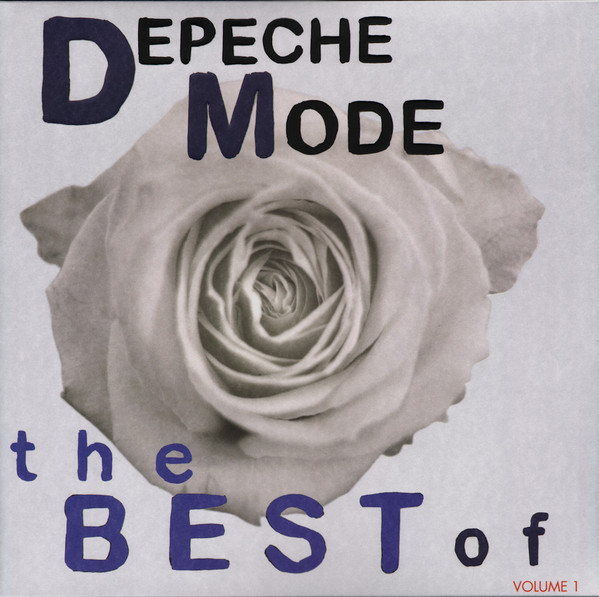
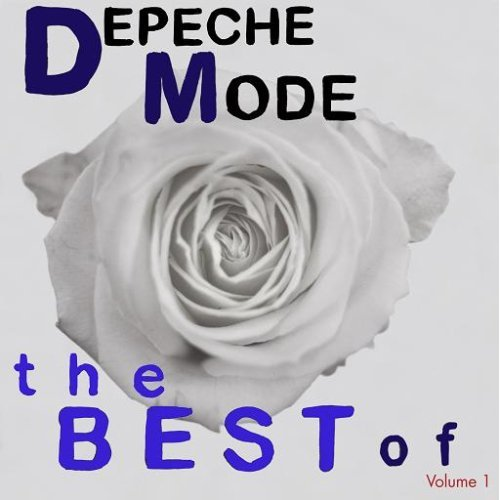
Updated album covers; Began new album details feature

diff --git a/src/app/data/albums.data.ts b/src/app/data/albums.data.ts
@@ -2,10 +2,10 @@ import type { Album } from '../models/album';
 
 export const ALBUMS: Album[] = [
   { id: 1, title: 'Off The Wall', artist: 'Michael Jackson', genre: 'R&B', year: 1979, month: 8, day: 10, coverUrl: 'michael_jackson-off_the_wall.jpg', color: '#94664c', compilation: false, gift: false, soundtrack: false },
-  { id: 2, title: 'Discovery', artist: 'Daft Punk', genre: 'Electronic', year: 2001, month: 3, day: 12, coverUrl: 'discovery.png', color: '#000', compilation: false, gift: false, soundtrack: false },
+  { id: 2, title: 'Discovery', artist: 'Daft Punk', genre: 'Electronic', year: 2001, month: 3, day: 12, coverUrl: 'daft_punk-discovery.jpg', color: '#000', compilation: false, gift: false, soundtrack: false },
   { id: 3, title: 'Casiopea', artist: 'Casiopea', genre: 'Jazz', year: 1979, month: 5, day: 25, coverUrl: 'casiopea-casiopea.jpg', color: '#1c2c1c', compilation: false, gift: false, soundtrack: false },
   { id: 4, title: 'Nevermind', artist: 'Nirvana', genre: 'Rock', year: 1991, month: 9, day: 24, coverUrl: 'nirvana-nevermind.jpg', color: '#127bad', compilation: false, gift: false, soundtrack: false },
-  { id: 5, title: 'Select Ambient Works 85-92', artist: 'Aphex Twin', genre: 'Electronic', year: 1992, month: 11, day: 9, coverUrl: 'aphex_twins-selected_ambient_works_85-92.png', color: '#ffffff', compilation: false, gift: false, soundtrack: false },
+  { id: 5, title: 'Select Ambient Works 85-92', artist: 'Aphex Twin', genre: 'Electronic', year: 1992, month: 11, day: 9, coverUrl: 'aphex_twins-selected_ambient_works_85-92.jpg', color: '#ffffff', compilation: false, gift: false, soundtrack: false },
   { id: 6, title: 'Neon Genesis Evangelion OST', artist: 'Shirou Sagisu', genre: 'Anime OST', year: 1995, month: 10, day: 4, coverUrl: 'shirou_sagisu-neon_genesis_evangelion_ost.jpg', color: '#000', compilation: false, gift: false, soundtrack: true },
   { id: 7, title: 'God of War: Ragnarok OST', artist: 'Bear McCreary', genre: 'Video Game OST', year: 2022, month: 11, day: 9, coverUrl: 'bear_mccreary-god_of_war_ragnarok_ost.jpg', color: '#e2ded8', compilation: false, gift: false, soundtrack: true },
   { id: 8, title: 'Attack on Titan OST', artist: 'Hiroyuki Sawano', genre: 'Anime OST', year: 2013, month: 4, day: 7, coverUrl: 'hiroyuki_sawano-attack_on_titan_ost.jpg', color: '#c0b3a2', compilation: false, gift: false, soundtrack: true },
@@ -18,8 +18,8 @@ export const ALBUMS: Album[] = [
   { id: 15, title: 'Chet Baker Sings', artist: 'Chet Baker', genre: 'Jazz', year: 1956, month: 1, day: 1, coverUrl: 'chet_baker-chet_baker_sings.jpg', color: '#e99700', compilation: false, gift: false, soundtrack: false },
   { id: 16, title: 'Five Leaves Left', artist: 'Nick Drake', genre: 'Rock', year: 1969, month: 9, day: 1, coverUrl: 'nick_drake-five_leaves_left.jpg', color: '#117a5b', compilation: false, gift: false, soundtrack: false },
   { id: 17, title: 'Some Great Reward', artist: 'Depeche Mode', genre: 'Pop', year: 1984, month: 9, day: 24, coverUrl: 'depeche_mode-some_great_reward.png', color: '#547288', compilation: false, gift: true, soundtrack: false },
-  { id: 18, title: 'Violator', artist: 'Depeche Mode', genre: 'Pop', year: 1990, month: 3, day: 19, coverUrl: 'depeche_mode-violator.png', color: '#000', compilation: false, gift: false, soundtrack: false },
-  { id: 19, title: 'To Pimp a Butterfly', artist: 'Kendrick Lamar', genre: 'Hip-Hop', year: 2015, month: 3, day: 15, coverUrl: 'kendrick_lamar-to_pimp_a_butterfly.png', color: '#b3b0b3', compilation: false, gift: false, soundtrack: false },
+  { id: 18, title: 'Violator', artist: 'Depeche Mode', genre: 'Pop', year: 1990, month: 3, day: 19, coverUrl: 'depeche_mode-violator.jpg', color: '#000', compilation: false, gift: false, soundtrack: false },
+  { id: 19, title: 'To Pimp a Butterfly', artist: 'Kendrick Lamar', genre: 'Hip-Hop', year: 2015, month: 3, day: 15, coverUrl: 'kendrick_lamar-to_pimp_a_butterfly.jpg', color: '#b3b0b3', compilation: false, gift: false, soundtrack: false },
   { id: 20, title: 'Fleetwood Mac Greatest Hits', artist: 'Fleetwood Mac', genre: 'Rock', year: 1988, month: 11, day: 14, coverUrl: 'fleetwood_mac-greatest_hits.jpg', color: '#31341d', compilation: true, gift: true, soundtrack: false },
   { id: 21, title: 'The Queen Is Dead', artist: 'The Smiths', genre: 'Rock', year: 1986, month: 6, day: 16, coverUrl: 'the_smiths-the_queen_is_dead.jpg', color: '#223429', compilation: false, gift: false, soundtrack: false },
   { id: 22, title: 'Elden Ring OST', artist: 'From Software', genre: 'Video Game OST', year: 2022, month: 2, day: 25, coverUrl: 'from_software-elden_ring_ost.jpg', color: '#162e27', compilation: false, gift: false, soundtrack: true },

diff --git a/src/app/components/home/home.css b/src/app/components/home/home.css
@@ -6,6 +6,7 @@
   justify-content: center;
 }
 
+/* Overlay backdrop */
 .overlay {
   position: fixed;
   inset: 0;
@@ -16,17 +17,106 @@
   z-index: 1000;
 }
 
-.overlay-content {
-  width: 80vw;
-  height: 80vw;
-  max-width: 700px;
-  max-height: 700px;
+/* Wrapper that holds cover + arrow + details side by side */
+.overlay-inner {
+  display: flex;
+  align-items: center;
+  gap: 0;
+  transition: gap 0.4s ease;
 }
 
-.overlay-content img {
+.overlay-inner.details-open {
+  gap: 24px;
+}
+
+/* Cover image container */
+.cover-section {
+  width: 80vw;
+  height: 80vw;
+  max-width: 500px;
+  max-height: 500px;
+  flex-shrink: 0;
+  transition: transform 0.4s ease;
+}
+
+.overlay-inner.details-open .cover-section {
+  transform: translateX(0);
+}
+
+.cover-section img {
   width: 100%;
   height: 100%;
   object-fit: contain;
   border-radius: 8px;
   box-shadow: 0 8px 32px rgba(0, 0, 0, 0.6);
+}
+
+/* Arrow button */
+.arrow-btn {
+  background: none;
+  border: none;
+  color: white;
+  font-size: 48px;
+  cursor: pointer;
+  padding: 0 8px;
+  line-height: 1;
+  flex-shrink: 0;
+  opacity: 0.8;
+  transition: opacity 0.2s ease;
+  user-select: none;
+}
+
+.arrow-btn:hover {
+  opacity: 1;
+}
+
+.arrow-btn span {
+  display: inline-block;
+  transition: transform 0.4s ease;
+}
+
+.arrow-btn span.rotated {
+  transform: rotate(180deg);
+}
+
+/* Details panel */
+.details-panel {
+  background-color: #000;
+  border-radius: 8px;
+  padding: 32px;
+  width: 0;
+  height: 500px;
+  max-height: 80vw;
+  overflow: hidden;
+  opacity: 0;
+  transition: width 0.4s ease, opacity 0.4s ease, padding 0.4s ease;
+  display: flex;
+  flex-direction: column;
+  gap: 12px;
+  box-shadow: 0 8px 32px rgba(0, 0, 0, 0.6);
+  white-space: nowrap;
+}
+
+.details-panel.visible {
+  width: 400px;
+  opacity: 1;
+}
+
+.details-panel h2 {
+  font-size: 24px;
+  font-weight: bold;
+  color: white;
+  margin: 0;
+}
+
+.details-panel .artist {
+  font-size: 18px;
+  color: #aaa;
+  margin: 0;
+}
+
+.details-panel .meta {
+  font-size: 14px;
+  color: #666;
+  margin: 0;
 }

diff --git a/src/app/components/home/home.html b/src/app/components/home/home.html
@@ -1,13 +1,27 @@
 <div class="album-grid" [style.--min-col-size]="colSize()">
   @for (album of albumService.filtered(); track album.id) {
-    <app-album-card [album]="album" (albumClicked)="selectedAlbum.set($event)" />
+    <app-album-card [album]="album" (albumClicked)="openAlbum($event)" />
   }
 </div>
 
 @if (selectedAlbum()) {
-  <div class="overlay" (click)="selectedAlbum.set(null)">
-    <div class="overlay-content" (click)="$event.stopPropagation()">
-      <img [src]="selectedAlbum()!.coverUrl" [alt]="selectedAlbum()!.title">
+  <div class="overlay" (click)="closeOverlay()">
+    <div class="overlay-inner" [class.details-open]="showDetails()" (click)="$event.stopPropagation()">
+
+      <div class="cover-section">
+        <img [src]="selectedAlbum()!.coverUrl" [alt]="selectedAlbum()!.title">
+      </div>
+
+      <button class="arrow-btn" (click)="showDetails.set(!showDetails())">
+        <span [class.rotated]="showDetails()">&#8250;</span>
+      </button>
+
+      <div class="details-panel" [class.visible]="showDetails()">
+        <h2>{{ selectedAlbum()!.title }}</h2>
+        <p class="artist">{{ selectedAlbum()!.artist }}</p>
+        <p class="meta">{{ selectedAlbum()!.genre }} · {{ selectedAlbum()!.year }}</p>
+      </div>
+
     </div>
   </div>
 }

diff --git a/src/app/components/home/home.ts b/src/app/components/home/home.ts
@@ -13,6 +13,17 @@ import { Album } from '../../models/album';
 export class Home {
   albumService = inject(AlbumService);
   selectedAlbum = signal<Album | null>(null);
+  showDetails = signal<boolean>(false);
+
+  openAlbum(album: Album) {
+    this.selectedAlbum.set(album);
+    this.showDetails.set(false);
+  }
+
+  closeOverlay() {
+    this.selectedAlbum.set(null);
+    this.showDetails.set(false);
+  }
 
   colSize = computed(() => {
     const sizes = { large: '350px', medium: '250px', small: '150px' };
